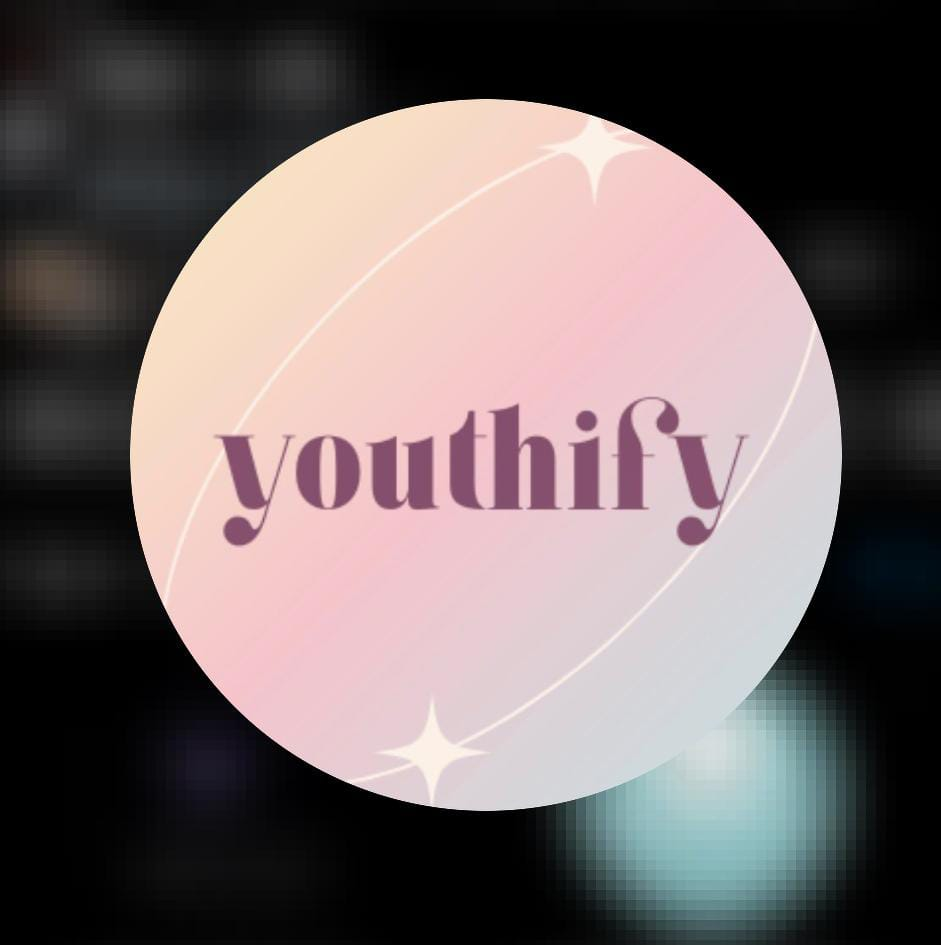
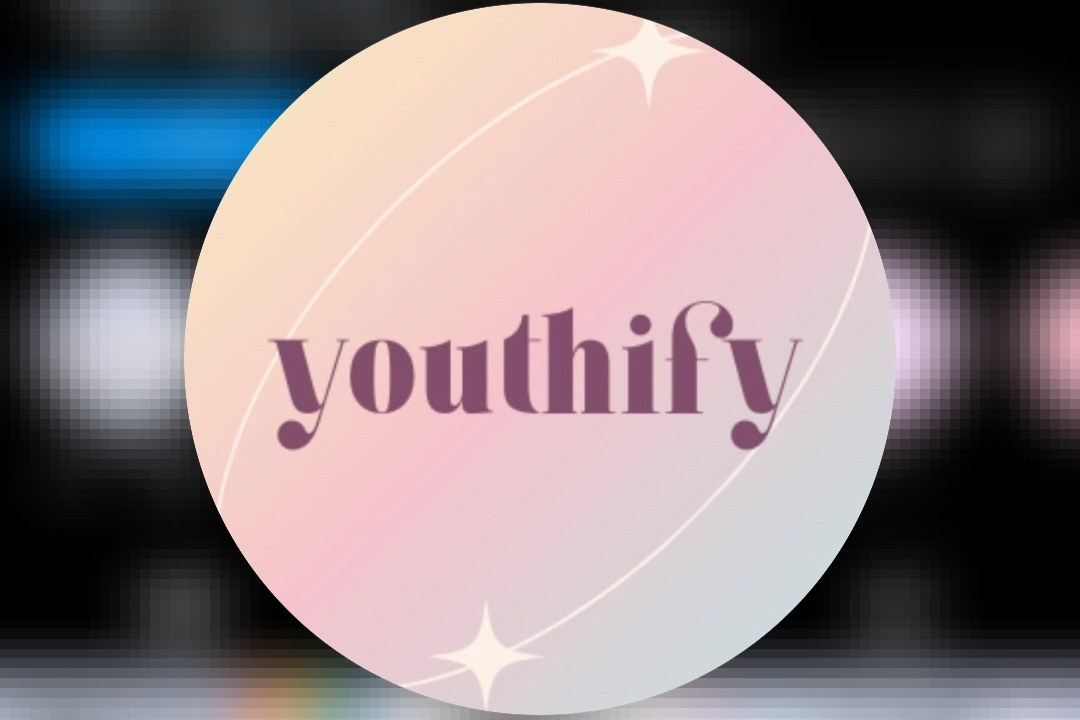
image changes

diff --git a/css/homeelements.css b/css/homeelements.css
@@ -34,7 +34,7 @@
   top: 0;                                             /* Position the content section at the top */
   left: 0;                                            /* Position the content section at the left */
   width: 100vw;                                        /* Set the width of the content section to 100% */
-  background-color: rgba(0, 0, 0);             /* Set the background color of the content section with opacity */
+  background-color: rgba(0, 0, 0, 0.7);             /* Set the background color of the content section with opacity */
   z-index: 3;                                         /* Set the z-index of the content section to 3 */
   color: white;                                     /* Set the text color of the content section to white */
   margin-top: 20vh;                                  /* Add top margin to the content section */

diff --git a/index.html b/index.html
@@ -67,9 +67,7 @@
         <div id = "About">
             <div id = "About-bg">
                 <div id = "About-bg-video">
-                    <video autoplay muted loop id="myVideo">
-                        <source src="video/bg_vid.mp4" type="video/mp4">
-                    </video>
+                    <img src="image/aboutBG.jpg" alt="" srcset="" style="width: 100vw;">
                 </div> 
                 <div id = "About-content">
                     <div id = "About-left">

diff --git a/css/partners.css b/css/partners.css
@@ -72,7 +72,7 @@
     }
     
     #Part1:hover img, #Part2:hover img, #Part3:hover img,#Part4:hover img{
-        opacity: 1;
+        opacity: 0.7;
     }
 }
 
@@ -92,7 +92,7 @@
         gap:1px
     }
     #Part1 img, #Part2 img, #Part3 img,#Part4 img{
-        opacity: 1;
+        opacity: 0.7;
     }
     
 }
